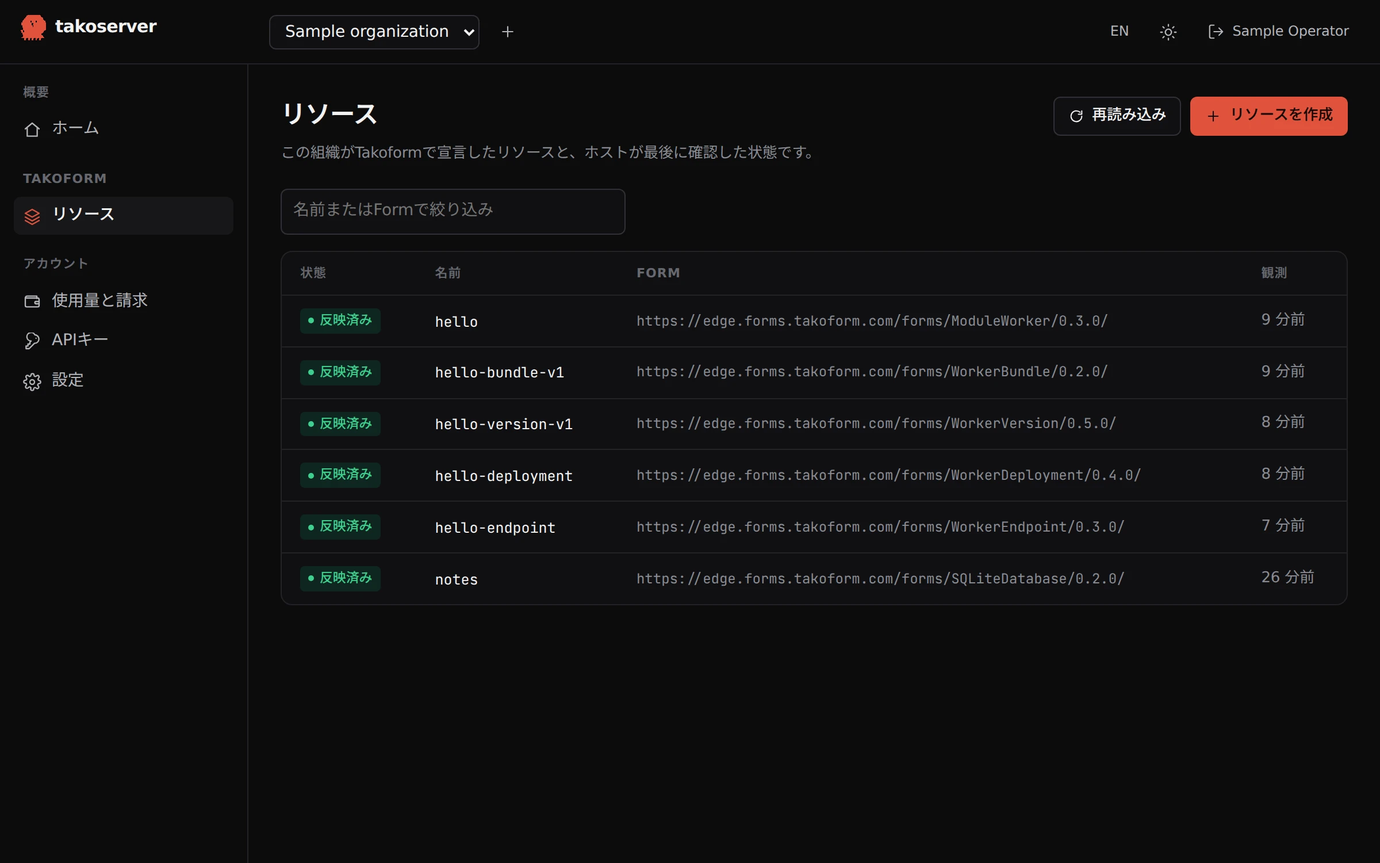
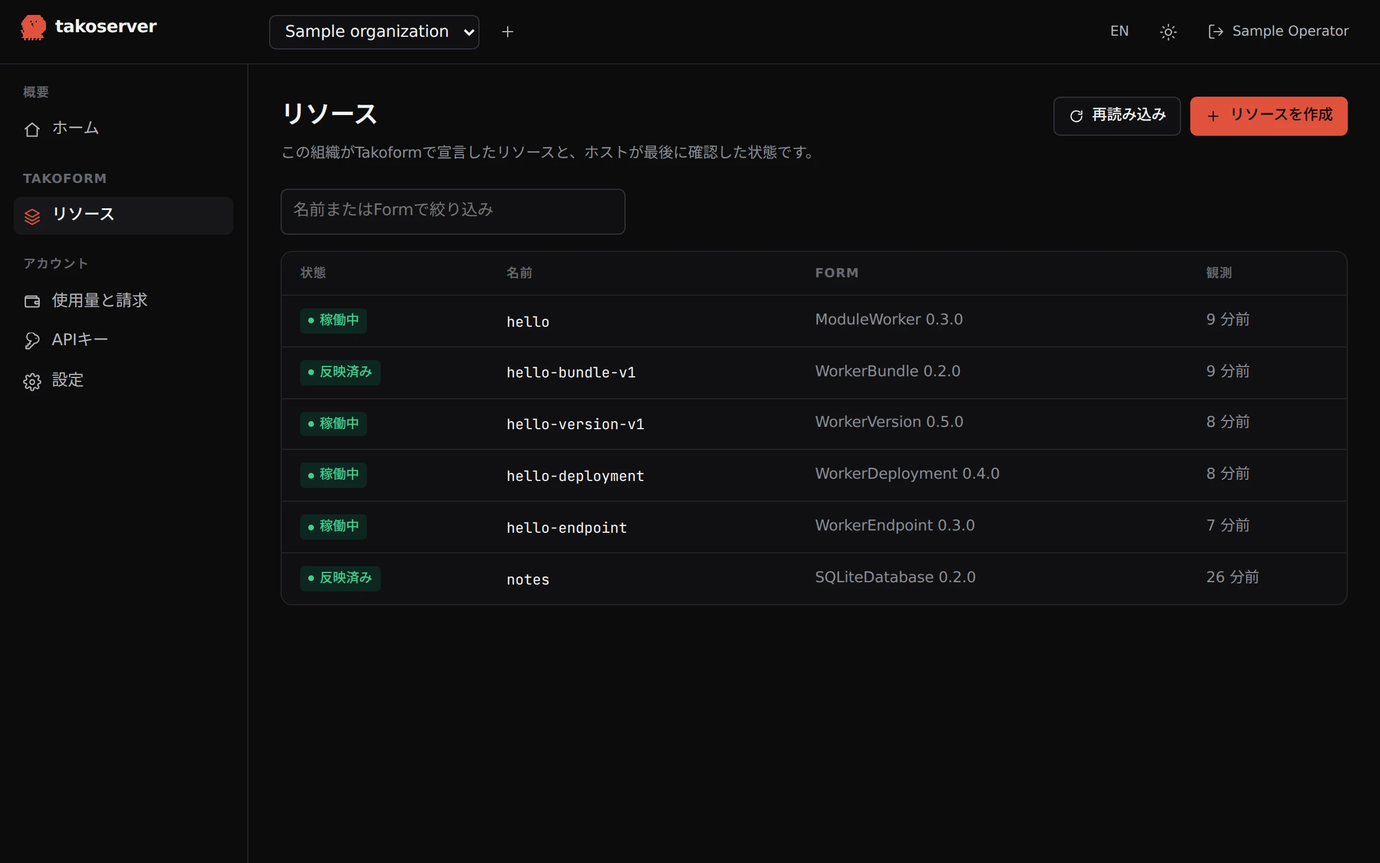
site: say what Takoform is and what a Worker Host needs, plainly (#421)
* site: say what Takoform is and what a Worker Host needs, plainly

The landing page named Takoform without saying what it is. It described the
Host's needs as a "complete local Worker profile" of data planes and bundle
blocks, and it showed the Worker chain as names without the request that
creates them.

- The Forms section says what a Form is, links takoform.com and says once
  what each group needs. The per-group bodies no longer repeat setting names.
- Running a Host is four plain steps: a Linux machine with Bun, the Worker
  runtime (workerd from a GitHub Release and the Workflow execution guard),
  HTTPS with a wildcard name and certificate, then settings and start.
- Deploying one Worker shows the actual create request, a jq-built body POSTed
  over Host API v2 with its idempotency key, and lists the Forms with their
  versions.
- The Console capture samples now carry the observed state the Bun Host's
  backends report, so a recapture shows a serving Worker as Ready.

* site: correct what artifacts, HTTPS and settings need, and stack below desktop

Review found four statements that contradicted the guide or Takoform:

- Artifact Forms need a line in the Host's settings, not only Bun.
- The Host holds port 443 for Workers, so the API front end takes another
  port. A wildcard certificate needs a DNS challenge.
- Three settings are not enough for Workers, and a partial Worker setup
  offers no Worker Forms.
[…]

diff --git a/src/landing.ts b/src/landing.ts
@@ -27,6 +27,8 @@ const DOCKER_GUIDE = `${REPOSITORY}/blob/main/docs/self-host-docker.md`;
 const SECURITY_GUIDE = `${REPOSITORY}/blob/main/docs/self-host-security.md`;
 const V2_REFERENCE = `${REPOSITORY}/blob/main/docs/takoform-v2.md`;
 const PREREQUISITES = `${GUIDE}#1-prerequisites`;
+const RELEASES = `${REPOSITORY}/releases`;
+const TAKOFORM = "https://takoform.com";
 
 const landingMessages = {
   en: {
@@ -39,44 +41,51 @@ const landingMessages = {
     source: "Source code",
     preview: "Resources in the Takoserver Console · public sample data",
     previewAlt:
-      "The Takoserver Console listing the Resources of a Worker named hello and a SQLite database, all applied, with public sample data",
+      "The Takoserver Console's Resources page: a Worker named hello with its version, deployment and endpoint all Ready, its WorkerBundle, and a SQLite database, in public sample data",
     formsTitle: "What you can deploy",
     formsBody:
-      "A Host serves exactly the Forms its configuration composes. Before relying on one, ask your Host's support endpoint about its exact Form URL.",
+      "Takoform describes each kind of resource, such as a Worker, a database or a queue, as a Form: a definition its publisher serves at a versioned URL, so the resource means the same on every Host that supports it. Takoserver runs these Forms.",
+    formsNeeds:
+      "Artifacts need only Bun and a short block in the Host's settings. Everything else needs the Worker runtime of step 2 below, and publishing at a hostname also needs step 3. A running Host answers, for each Form URL, whether it serves that Form.",
+    takoform: "About Takoform",
     artifactsTitle: "Artifacts",
-    artifactsBody:
-      "Worker code, static files and SQL migrations, kept by URL and SHA-256. Each needs only Bun and that Form's block in TAKOSERVER_TAKOFORM_V2_CONFIG.",
+    artifactsBody: "Worker code, static files and SQL migrations, pinned by URL and SHA-256.",
     workersTitle: "Workers and HTTPS",
     workersBody:
-      "Create a Worker, cut a version, choose which version serves, run it on a schedule and publish it at an HTTPS hostname. Needs the complete local Worker profile (step 4 below); WorkerEndpoint also needs the HTTPS listener on port 443.",
+      "Create a Worker, cut versions, choose which one serves, run it on a schedule and publish it at its own HTTPS hostname.",
     dataTitle: "Data",
     dataBody:
-      "SQLite databases, KV namespaces and object buckets that a Worker uses through Bindings. Needs the complete local Worker profile; SQLiteMigrationApplication also needs a sqliteMigrationSet block.",
+      "SQLite databases, KV namespaces and object buckets that a Worker reaches through bindings.",
     asyncTitle: "Queues, actors and workflows",
     asyncBody:
-      "At-least-once queues and their consumers, actors that keep state, and durable workflows. Needs the complete local Worker profile.",
+      "At-least-once queues and their consumers, actors that keep state, and durable workflows.",
     hostTitle: "Run your own Host",
     hostStep1:
-      "On Linux x86-64 with Bun, check out a reviewed commit and install its locked dependencies.",
-    hostStep2: "Set the public HTTPS origin, the v2 configuration and a persistent cursor key.",
+      "Use a Linux x86-64 machine with Bun. Check out a reviewed commit (a release tag keeps it matched with that release's workerd) and install its locked dependencies.",
+    hostStep2:
+      "Add the Worker runtime: the pinned workerd from a GitHub Release, checked against its SHA256SUMS, and the Workflow execution guard, a small Go program built from the same checkout.",
     hostStep3:
-      "Start it. Without an identity provider, the first boot prints a single-use operator sign-in assertion.",
+      "Give it HTTPS. For Workers, get a wildcard DNS name and certificate, such as *.apps.example.com; a wildcard certificate is issued through a DNS challenge, which needs your DNS provider's API. The Host serves Workers on port 443 itself, so put the API behind a front end such as Caddy on another port, such as 8443.",
     hostStep4:
-      "For Workers, add the complete local Worker profile: the pinned workerd, Actor and Workflow boot with the Workflow execution guard, all five private data planes, and both bundle blocks on selfhost-v2-worker-primary. Publishing at a hostname also needs HTTPS on port 443.",
+      "Write its settings and start it. Three are always required; the Worker runtime and HTTPS add their own (step 3 of the install guide), and a partial Worker setup offers no Worker Forms. Without an identity provider, the first boot prints a single-use operator sign-in assertion.",
     hostNote:
-      "Serve the API through your own HTTPS front end; do not expose the listener directly. To try the API, sign-in, organizations and keys without running Workers, use Docker.",
+      "Without the Worker runtime and port 443, the Host still keeps artifacts and serves the API, sign-in, organizations and keys. To try that much quickly, use Docker.",
+    releases: "GitHub Releases",
     prerequisites: "Prerequisites",
     docker: "Try it in Docker",
     security: "Self-host security",
     deployTitle: "Deploy one Worker",
     deployBody:
-      "Steps 6 to 9 of the install guide, condensed; $V2 and $KEY come from its step 5. Host API v2 accepts each create as an Operation; for 24 hours, sending it again with the same idempotency-key returns that Operation instead of a second Resource.",
+      "Five Resources, created in this order with curl over Host API v2. Each create is accepted as an Operation that you poll until it succeeds. $V2, $F, $ORG and $KEY come from step 5 of the install guide, which runs the whole chain with a small create function.",
+    createLabel:
+      "Each create is one POST. Sent again with the same idempotency-key within 24 hours, it returns the same Operation instead of a second Worker.",
     workerStep: "is the Worker itself. Its versions, deployment and endpoint refer to it.",
-    bundleStep: "names the bytes of worker.js held by the Host, by URL and SHA-256.",
+    bundleStep:
+      "names the bytes of worker.js by URL and SHA-256. Publish it over public HTTPS and the Host fetches it, or seed it onto the Host beforehand.",
     versionStep: "pairs that bundle with its fetch handler.",
     deploymentStep: "chooses which version serves: here one version, weight 10000.",
     endpointStep: "publishes the Worker at an HTTPS hostname.",
-    resultLabel: "Then request it:",
+    resultLabel: "Then request it, with the UID the Endpoint's create returned in $ENDPOINT:",
     deployMore: "Steps 6 to 9 in the guide",
     afterTitle: "After you deploy",
     consoleTitle: "In the console",
@@ -102,45 +111,51 @@ const landingMessages = {
     source: "ソースコード",
     preview: "Takoserver Consoleのリソース一覧（公開用サンプルデータ）",
     previewAlt:
-      "helloというWorkerのリソース一式とSQLiteデータベースがすべて反映済みになっている、Takoserver Consoleのリソース一覧（公開用サンプルデータ）",
+      "Takoserver Consoleのリソース一覧。helloというWorkerとその版・配信・公開先が稼働中で、WorkerBundleとSQLiteデータベースも並んでいます（公開用サンプルデータ）",
     formsTitle: "デプロイできるもの",
     formsBody:
-      "Hostは、設定で組み合わせたFormだけを提供します。使う前に、HostのsupportエンドポイントでForm URLごとに対応を確認できます。",
+      "Takoformでは、Worker・データベース・キューといったリソースの種類ごとの定義をFormと呼び、公開元がバージョン付きのURLで公開します。対応するHostであれば、どこでも同じ意味のリソースになります。Takoserverは次のFormを動かせます。",
+    formsNeeds:
+      "成果物は、Bunと設定への短い記述の追加だけで使えます。それ以外には下の手順2のWorker実行環境が必要で、ホスト名で公開するには手順3も必要です。動いているHostには、Form URLごとに対応しているかを問い合わせられます。",
+    takoform: "Takoformについて",
     artifactsTitle: "成果物",
     artifactsBody:
-      "Workerのコード・静的ファイル・SQLのマイグレーションを、URLとSHA-256で固定して保持します。Bunと、TAKOSERVER_TAKOFORM_V2_CONFIGにあるそのFormのblockだけで使えます。",
+      "Workerのコード・静的ファイル・SQLのマイグレーションを、URLとSHA-256で固定して保持します。",
     workersTitle: "Workerと公開",
     workersBody:
-      "Workerを作り、版を作り、配信する版を決め、定期実行し、HTTPSのホスト名で公開します。完全なlocal Worker profile（下の手順4）が必要で、WorkerEndpointには443番のHTTPS listenerも必要です。",
+      "Workerを作り、版を作り、配信する版を決め、定期実行し、専用のHTTPSホスト名で公開します。",
     dataTitle: "データ",
-    dataBody:
-      "WorkerがBindingで使うSQLiteデータベース、KV、オブジェクトストレージです。完全なlocal Worker profileが必要で、SQLiteMigrationApplicationにはsqliteMigrationSetのblockも必要です。",
+    dataBody: "WorkerがBindingで使うSQLiteデータベース、KV、オブジェクトストレージです。",
     asyncTitle: "キュー・Actor・Workflow",
-    asyncBody:
-      "少なくとも一度届くキューとその受信、状態を持つActor、永続するWorkflowです。完全なlocal Worker profileが必要です。",
+    asyncBody: "少なくとも一度届くキューとその受信、状態を持つActor、永続するWorkflowです。",
     hostTitle: "自分のHostを動かす",
     hostStep1:
-      "Linux x86-64とBunを用意し、reviewしたcommitを取り出して、lockfileで固定された依存関係をインストールします。",
-    hostStep2: "公開HTTPS origin、v2設定、永続するcursor鍵を設定します。",
+      "Linux x86-64のマシンとBunを用意します。レビュー済みのコミットを取り出し（リリースのタグなら、そのリリースのworkerdと揃います）、ロックファイルで固定された依存関係をインストールします。",
+    hostStep2:
+      "Workerの実行環境を加えます。GitHub Releaseにある固定版のworkerdをSHA256SUMSで確認して置き、Workflow execution guard（同じチェックアウトからGoでビルドする小さなプログラム）を用意します。",
     hostStep3:
-      "起動します。IDプロバイダーが未設定なら、初回起動時に一度だけ使える運営者サインイン用のassertionが表示されます。",
+      "HTTPSを用意します。Worker用に、*.apps.example.comのようなワイルドカードのDNS名と証明書を用意します。ワイルドカード証明書はDNSチャレンジで発行するため、DNSプロバイダーのAPIが必要です。443番はHost自身がWorkerの配信に使うので、APIはCaddyなどのフロントエンドの背後に、8443番など別のポートで置きます。",
     hostStep4:
-      "Workerには完全なlocal Worker profileを追加します。固定版のworkerd、ActorとWorkflowの起動とWorkflow execution guard、5つのprivate data plane、selfhost-v2-worker-primaryに向けた2つのbundle blockです。ホスト名で公開するには443番のHTTPSも必要です。",
+      "設定を書いて起動します。常に必要な設定は3つで、Worker実行環境とHTTPSにはそれぞれ追加の設定があります（導入手順書の手順3）。Worker実行環境の設定が一部でも欠けると、Worker関連のFormは提供されません。IDプロバイダーが未設定なら、初回起動時に一度だけ使える運営者サインイン用のassertionが表示されます。",
     hostNote:
-      "APIは自分で用意したHTTPSフロントエンドの背後で公開し、listenerを直接公開しないでください。Workerを動かさずにAPI・サインイン・組織・APIキーを試すならDockerを使えます。",
+      "Worker実行環境と443番がなくても、Hostは成果物を保持し、API・サインイン・組織・APIキーを提供します。そこまでを手早く試すならDockerを使えます。",
+    releases: "GitHub Releases",
     prerequisites: "前提条件",
     docker: "Dockerで試す",
     security: "セルフホストのセキュリティ",
     deployTitle: "Workerを1つデプロイする",
     deployBody:
-      "導入手順書のstep 6〜9を短くまとめた流れです。$V2と$KEYは手順書のstep 5で用意します。Host API v2は作成をOperationとして受け付けます。24時間以内に同じidempotency-keyで送り直すと、2つ目のリソースは作らず同じOperationを返します。",
+      "5つのリソースを、この順にcurlとHost API v2で作成します。作成はOperationとして受け付けられ、成功するまで状態を確認します。$V2・$F・$ORG・$KEYは導入手順書の手順5で用意します。手順書では、小さなcreate関数でこの流れ全体を実行します。",
+    createLabel:
+      "作成は1回のPOSTです。24時間以内に同じidempotency-keyで送り直すと、2つ目のWorkerは作らず同じOperationを返します。",
     workerStep: "Workerそのものです。版・配信・公開先はこれを参照します。",
-    bundleStep: "Hostに保持したworker.jsの内容を、URLとSHA-256で指定します。",
-    versionStep: "そのbundleとfetchハンドラーを組み合わせた版です。",
+    bundleStep:
+      "worker.jsの内容をURLとSHA-256で指定します。公開HTTPSに置けばHostが取得し、Hostへ事前に保持させることもできます。",
+    versionStep: "そのWorkerBundleとfetchハンドラーを組み合わせた版です。",
     deploymentStep: "どの版を配信するかを決めます。ここでは1つの版を重み10000で配信します。",
     endpointStep: "WorkerをHTTPSのホスト名で公開します。",
-    resultLabel: "公開したら、リクエストします。",
-    deployMore: "手順書のstep 6〜9",
+    resultLabel: "公開したら、Endpointの作成で返ったUIDを$ENDPOINTに入れてリクエストします。",
+    deployMore: "手順書の手順6〜9",
     afterTitle: "デプロイしたあと",
     consoleTitle: "コンソールで",
     consoleBody:
@@ -199,11 +214,11 @@ const FORM_GROUPS = [
 
 /** The Worker chain of the install guide, in the order it is created. */
 const DEPLOY_CHAIN = [
-  ["ModuleWorker", "hello", "workerStep"],
-  ["WorkerBundle", "hello-bundle-v1", "bundleStep"],
-  ["WorkerVersion", "hello-version-v1", "versionStep"],
-  ["WorkerDeployment", "hello-deployment", "deploymentStep"],
-  ["WorkerEndpoint", "hello-endpoint", "endpointStep"],
+  ["ModuleWorker 0.3.0", "hello", "workerStep"],
+  ["WorkerBundle 0.2.0", "hello-bundle-v1", "bundleStep"],
+  ["WorkerVersion 0.5.0", "hello-version-v1", "versionStep"],
+  ["WorkerDeployment 0.4.0", "hello-deployment", "deploymentStep"],
+  ["WorkerEndpoint 0.3.0", "hello-endpoint", "endpointStep"],
 ] as const;
 
 /** The product mark — the pixel tako, drawn once so the page can place it
@@ -309,6 +324,7 @@ pre .out { color: var(--accent); }
 .steps > li > * { grid-column: 2; min-width: 0; }
 .steps p { margin: 0; color: var(--ink-1); font-size: 15px; }
 .steps pre { margin-top: 12px; }
+.steps .more { margin-top: 8px; }
 .chips { display: flex; flex-wrap: wrap; gap: 8px; margin-top: 12px; }
 .chips code { padding: 4px 10px; border: 1px solid var(--line-1); border-radius: 999px; background: var(--surface-2); font: 12.5px/1.6 var(--mono); overflow-wrap: anywhere; }
 .note { margin: 24px 0 0; max-width: 44em; color: var(--ink-2); font-size: 14px; }
@@ -335,6 +351,8 @@ footer { display: flex; align-items: center; justify-content: space-between; fle
 .error .pill { margin-top: 28px; }
 
 @media (min-width: 761px) and (max-width: 1100px) { .preview .frame { max-width: 848px; margin-inline: auto; } }
+/* Below desktop width the code beside each list would scroll sideways, so the columns stack. */
+@media (max-width: 1200px) { .deploy, .host { grid-template-columns: minmax(0, 1fr); gap: 24px; } }
 @media (max-width: 760px) {
   .shell { width: calc(100% - 32px); }
   .top { height: 72px; }
@@ -461,9 +479,11 @@ ${preview}
 <section class="block" id="forms" aria-labelledby="forms-title">
 ${text("formsTitle", "h2", ' id="forms-title"')}
 ${text("formsBody", "p", ' class="intro"')}
+${text("formsNeeds", "p", ' class="intro"')}
 <dl class="forms">
 ${formGroups}
 </dl>
+<p class="more"><a href="${TAKOFORM}" data-i18n="takoform">${copy.takoform}</a></p>
 </section>
 
 
@@ -475,9 +495,9 @@ ${text("hostTitle", "h2", ' id="start-title"')}
 cd takoserver
 git checkout --detach &lt;reviewed-commit&gt;
 bun install --frozen-lockfile</pre></li>
-<li>${text("hostStep2", "p")}<span class="chips"><code>TAKOSERVER_PUBLIC_ORIGIN</code><code>TAKOSERVER_TAKOFORM_V2_CONFIG</code><code>TAKOSERVER_TAKOFORM_V2_CURSOR_KEY</code></span></li>
-<li>${text("hostStep3", "p")}<pre>bun --no-env-file src/entry-bun.ts</pre></li>
-<li>${text("hostStep4", "p")}</li>
+<li>${text("hostStep2", "p")}<p class="more"><a href="${RELEASES}" data-i18n="releases">${copy.releases}</a></p></li>
+<li>${text("hostStep3", "p")}</li>
+<li>${text("hostStep4", "p")}<span class="chips"><code>TAKOSERVER_PUBLIC_ORIGIN</code><code>TAKOSERVER_TAKOFORM_V2_CONFIG</code><code>TAKOSERVER_TAKOFORM_V2_CURSOR_KEY</code></span><pre>bun --no-env-file src/entry-bun.ts</pre></li>
 </ol>
 <aside>
 ${text("hostNote", "p", ' class="note"')}
@@ -495,6 +515,13 @@ ${text("deployBody", "p", ' class="intro"')}
 ${chain}
 </ol>
 <div class="code">
+${text("createLabel", "p")}
+<pre>jq -n --arg form "$F/ModuleWorker/0.3.0/" --arg space "$ORG" \\
+  '{$form, $space, name: "hello", spec: {}}' |
+curl -sS "$V2/resources" --data @- \\
+  -H "authorization: Bearer $KEY" \\
+  -H "content-type: application/json" \\
+  -H "idempotency-key: takoserver-first-use-hello"</pre>
 <pre><span class="file">worker.js</span>export default {
   fetch() { return new Response("hello from takoserver\\n"); },
 };</pre>

diff --git a/tests/landing.test.ts b/tests/landing.test.ts
@@ -31,7 +31,7 @@ describe("Takoserver public site", () => {
     expect(html).not.toContain("<script src=");
   });
 
-  test("lists the Forms a self-host can compose, with versions and what each group needs", () => {
+  test("explains Takoform and lists the Forms a self-host can compose, with versions", () => {
     const html = landingHtml(site);
     for (const form of [
       "WorkerBundle 0.2.0",
@@ -53,22 +53,37 @@ describe("Takoserver public site", () => {
     ]) {
       expect(html).toContain(`<code>${form}</code>`);
     }
-    expect(html).toContain("that Form's block in TAKOSERVER_TAKOFORM_V2_CONFIG");
-    expect(html).toContain("WorkerEndpoint also needs the HTTPS listener on port 443");
-    expect(html).toContain("SQLiteMigrationApplication also needs a sqliteMigrationSet block");
+    expect(html).toContain("Takoform describes each kind of resource");
+    expect(html).toContain(
+      '<a href="https://takoform.com" data-i18n="takoform">About Takoform</a>',
+    );
+    expect(html).toContain(
+      "Artifacts need only Bun and a short block in the Host's settings. Everything else needs the Worker runtime of step 2 below, and publishing at a hostname also needs step 3.",
+    );
+    // The marketing page names what an operator does, not the Host's internal profile.
+    expect(html).not.toMatch(
+      /local Worker profile|data plane|bundle block|selfhost-v2-worker-primary/u,
+    );
   });
 
   test("walks one Worker through the guide's create chain to its response", () => {
     const html = landingHtml(site);
     const order = [
-      "ModuleWorker",
-      "WorkerBundle",
-      "WorkerVersion",
-      "WorkerDeployment",
-      "WorkerEndpoint",
+      "ModuleWorker 0.3.0",
+      "WorkerBundle 0.2.0",
+      "WorkerVersion 0.5.0",
+      "WorkerDeployment 0.4.0",
+      "WorkerEndpoint 0.3.0",
     ].map((kind) => html.indexOf(`<strong>${kind} <span>`));
     expect(order.every((index) => index > 0)).toBe(true);
     expect([...order].sort((a, b) => a - b)).toEqual(order);
+    // One create, as the guide's create function sends it.
+    expect(html).toContain(
+      'jq -n --arg form "$F/ModuleWorker/0.3.0/" --arg space "$ORG" \\\n' +
+        "  '{$form, $space, name: \"hello\", spec: {}}' |\n" +
+        'curl -sS "$V2/resources" --data @- \\\n',
+    );
+    expect(html).toContain('-H "idempotency-key: takoserver-first-use-hello"');
     expect(html).toContain('return new Response("hello from takoserver\\n");');
     expect(html).toContain('curl -sS "https://$NAME/"');
     expect(html).toContain('<span class="out">hello from takoserver</span>');
@@ -82,7 +97,13 @@ describe("Takoserver public site", () => {
     );
     expect(html).toContain("<code>TAKOSERVER_TAKOFORM_V2_CURSOR_KEY</code>");
     expect(html).toContain("bun --no-env-file src/entry-bun.ts");
-    expect(html).toContain("both bundle blocks on selfhost-v2-worker-primary");
+    // What a Worker Host needs, in plain terms: workerd, the guard, HTTPS and a wildcard name.
+    expect(html).toContain(
+      "the pinned workerd from a GitHub Release, checked against its SHA256SUMS",
+    );
+    expect(html).toContain("the Workflow execution guard, a small Go program");
+    expect(html).toContain("a wildcard DNS name and certificate, such as *.apps.example.com");
+    expect(html).toContain('href="https://github.com/tako0614/takoserver/releases"');
     expect(html).toContain("docs/self-host-operations.md#1-prerequisites");
     expect(html).toContain("docs/self-host-docker.md");
   });

diff --git a/scripts/capture-site-console.ts b/scripts/capture-site-console.ts
@@ -30,21 +30,35 @@ const organizationId = "org_sample";
 const now = Date.now();
 const forms = "https://edge.forms.takoform.com/forms";
 
+// Each observed and output object has the shape the Bun Host's own backend
+// reports for that Form once the Worker serves, so the Console shows the states
+// a reader will see on their own Host.
 const resources = [
-  sample("hello", "ModuleWorker/0.3.0", 9, {}),
+  sample("hello", "ModuleWorker/0.3.0", 9, {
+    activeDeploymentUid: "sample-hello-deployment",
+    ready: true,
+  }),
   sample("hello-bundle-v1", "WorkerBundle/0.2.0", 9, {
     entrypoint: "worker.js",
     fileCount: 1,
     totalBytes: 80,
   }),
-  sample("hello-version-v1", "WorkerVersion/0.5.0", 8, {}),
-  sample("hello-deployment", "WorkerDeployment/0.4.0", 8, {}),
+  sample("hello-version-v1", "WorkerVersion/0.5.0", 8, {
+    ready: true,
+    resolvedBindings: true,
+    bundleVerified: true,
+  }),
+  sample("hello-deployment", "WorkerDeployment/0.4.0", 8, {
+    ready: true,
+    active: true,
+    selectedVersions: [{ resourceUid: "sample-hello-version-v1", weight: 10000 }],
+  }),
   sample(
     "hello-endpoint",
     "WorkerEndpoint/0.3.0",
     7,
-    { hostname: "hello.apps.example.com" },
-    { hostname: "hello.apps.example.com" },
+    { tlsReady: true, activeDeploymentRouteReady: true },
+    { hostname: "hello.apps.example.com", url: "https://hello.apps.example.com/" },
   ),
   sample("notes", "SQLiteDatabase/0.2.0", 26, { databaseExists: true }),
 ];
@@ -232,16 +246,18 @@ try {
         }
         const rendered = await evaluate<{
           rows: number;
-          applied: number;
+          settled: number;
           viewport: [number, number];
           pageWidth: number;
           theme: string;
           lang: string;
         }>(
-          `({ rows: document.querySelectorAll('.table-scroll tbody tr').length, applied: [...document.querySelectorAll('.table-scroll tbody tr')].filter(row => /Applied|反映済み/.test(row.innerText)).length, viewport: [innerWidth, innerHeight], pageWidth: document.documentElement.scrollWidth, theme: document.documentElement.dataset.theme, lang: document.documentElement.lang })`,
+          `({ rows: document.querySelectorAll('.table-scroll tbody tr').length, settled: [...document.querySelectorAll('.table-scroll tbody tr')].filter(row => /\\b(Ready|Applied)\\b|稼働中|反映済み/.test(row.innerText)).length, viewport: [innerWidth, innerHeight], pageWidth: document.documentElement.scrollWidth, theme: document.documentElement.dataset.theme, lang: document.documentElement.lang })`,
         );
         if (
-          rendered.applied !== resources.length ||
+          // Every sample row shows a settled, healthy state: Ready where its Form
+          // reports readiness, Applied where it has none.
+          rendered.settled !== resources.length ||
           rendered.viewport[0] !== width ||
           rendered.viewport[1] !== height ||
           rendered.pageWidth > width ||
